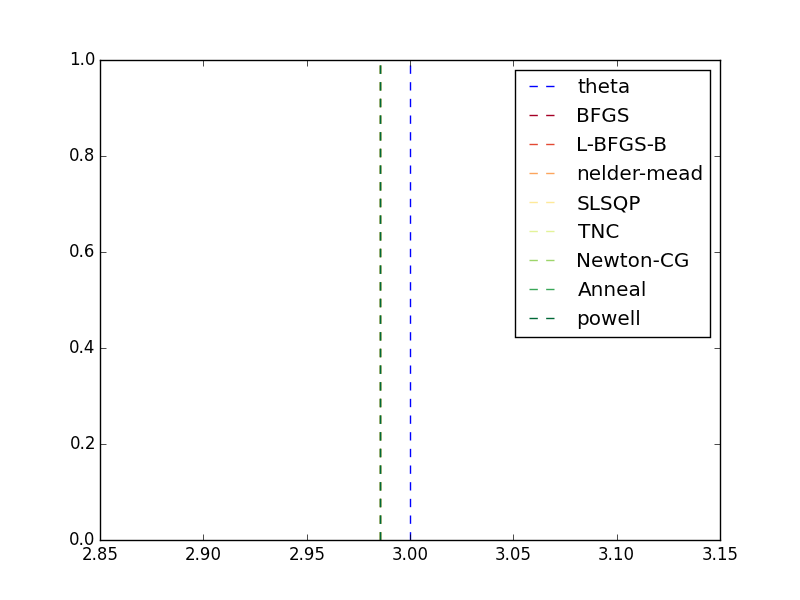
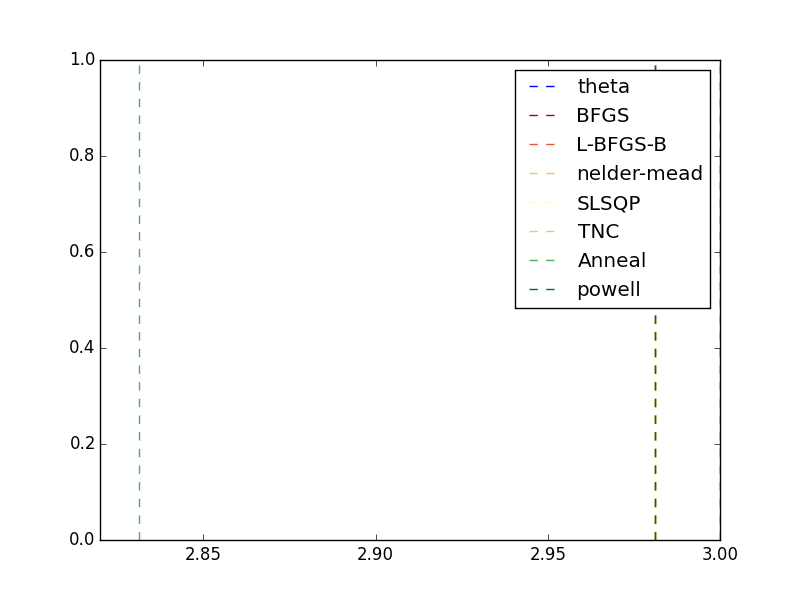
fitting four-param weibull

diff --git a/bin/examples.py b/bin/examples.py
@@ -4,6 +4,7 @@ from scipy.stats import exponweib, norm
 
 from tools import color_list
 from metrop_hastings import prune, metropolis_hastings, simulated_annealing, minimizer
+from weibull import weibull, rand_weibull
 
 def example_1():
     a, c = 3, 1
@@ -75,26 +76,98 @@ def example_4():
     pf = lambda ah, ch=c, d=data: -np.sum(np.log(exponweib.pdf(data, ah, ch)))
     x0 = 2
     sols = {}
-    methods = ["nelder-mead", "powell", "Anneal", "BFGS", "Newton-CG", "TNC", "L-BFGS-B", "SLSQP"]
+    methods = ["nelder-mead", "powell", "Anneal", "BFGS", "TNC", "L-BFGS-B", "SLSQP"]
     for method in sorted(methods):
-        th = minimizer(x0, pf, 'nelder-mead')
-        assert th['success']
-        # th = {'success': False}
-        # while not th['success']:
-        #     x0 = np.random.uniform(0, 10)
-        #     th = minimizer(x0, pf, 'nelder-mead')
-        #     print '{0} ({1}): {2}'.format(method, x0, th['message'])
+        th = {'success': False}
+        while not th['success']:
+            th = minimizer(x0, pf, method)
+            print '{0} ({1}): {2}'.format(method, x0, th['message'])
+            x0 = np.random.uniform(0, 10)
         sols[method] = th['x']
-    plt.axvline(a, label='theta', color='b', linestyle='--')
-    cmap = color_list(len(sols))
     for i, (method, sol) in enumerate(sols.iteritems()):
-        plt.axvline(sol, label=method, color=cmap[i], linestyle='--')
-    plt.legend()
-    plt.savefig('../img/example-4.png')
+        print '{0}: {1}'.format(method, sol)
+
+def log_likelihood(data, fcn, thetas):
+    """
+    data is array of [(x0, y0), (x1, y1), ...], where each yi in {0, 1}
+    fcn if function, and will be applied to each xi
+    thetas is tuple, a set of parameters passed to fcn along with each xi
+
+    calculates the sum of the log-likelihood of data
+        = sum_i fcn(xi, *thetas)^(yi) * (1 - fcn(xi, *thetas))^(1-yi)
+    """
+    # likelihood = lambda row: (1 - row[1]) + (2*row[1] - 1)*fcn(row[0], thetas)
+    likelihood = lambda row: fcn(row[0], thetas) if row[1] else 1-fcn(row[0], thetas)
+    log_likeli = lambda row: np.log(likelihood(row))
+    val = sum(map(log_likeli, data))
+    return val
+
+def example_5_inner(method, theta, maxtries, pf, bounds):
+    th = {'success': False}
+    th0 = np.array(theta)
+    i = 0
+    while i < maxtries and not th['success']:
+        th = minimizer(th0, pf, method, bounds, None, {'maxiter': 400})
+        th0 = th0*np.random.uniform(0.95, 1.05)
+        i += 1
+    return th['x'] if th['success'] else None
+
+def example_5_plot(sols, methods, xs0, theta, cmap):
+    # plt.scatter(xs0, [np.sum([yc for xc, yc in data if xc == x])*1.0/nblocks for x in xs0])
+    for i, method in enumerate(methods):
+        color = cmap[method]
+        for sol in sols[method]:
+            plt.plot(xs0, weibull(xs0, sol), color=color, label=method)
+            plt.axhline(sol[2], color=color, linestyle='--')
+            plt.axhline(sol[3], color=color, linestyle='--')
+    plt.plot(xs0, weibull(xs0, theta), linewidth=2, label='simulated')
+    plt.axhline(theta[2], linestyle='--')
+    plt.axhline(theta[3], linestyle='--')
+    plt.xscale('log')
+    # plt.legend()
     plt.show()
+
+    for i, method in enumerate(methods):
+        color = cmap[method]
+        ss = zip(*sols[method])
+        for i, s in enumerate(ss):
+            plt.subplot(2, 2, i+1)
+            plt.title('{0}, {1}'.format(method, ['scale', 'shape', 'lower-bound', 'upper-bound'][i]))
+            plt.hist(s, color=color, label=method)
+            plt.axvline(theta[i], linestyle='--')
+        plt.tight_layout()
+        plt.show()
+
+def example_5():
+    theta = [0.3, 0.9, 0.045, 0.96]
+    # theta = [0.1, 0.5, 0.03, 0.98]
+    xs0 = np.logspace(np.log10(0.001), np.log10(1.0), 20)
+    nblocks = 50
+    xs = xs0.repeat(nblocks)
+
+    th0 = theta # [0.5, 0.2, 0.0, 1.0]
+    APPROX_ZERO, APPROX_ONE = 0.00001, 0.99999
+    bounds = [(APPROX_ZERO, None), (APPROX_ZERO, None), (APPROX_ZERO, APPROX_ONE), (APPROX_ZERO, APPROX_ONE)]
+    methods = ["L-BFGS-B", "SLSQP"] # ["SLSQP", "TNC", "L-BFGS-B"]
+    maxtries = 2 # 20
+    nboots = 1000
+    sols = dict((method, []) for method in methods)
+
+    for i in xrange(nboots):
+        if i % 10 == 0:
+            print i
+        data = zip(xs, rand_weibull(xs, theta))
+        pf = lambda th, d=data: -log_likelihood(d, weibull, th)
+        for method in methods:
+            # print method
+            sol = example_5_inner(method, theta, maxtries, pf, bounds)
+            sols[method].append(sol)
+    cmap = dict(zip(methods, color_list(len(sols)+2, 'Dark2')))
+    example_5_plot(sols, methods, xs0, theta, cmap)
 
 if __name__ == '__main__':
     # example_1()
     # example_2()
     # example_3()
-    example_4()
+    # example_4()
+    example_5()

diff --git a/bin/weibull.py b/bin/weibull.py
@@ -27,6 +27,9 @@ def weibull(x, theta, unfold=False):
     a, b, minV, maxV = params(theta, unfold)
     return maxV - (maxV-minV) * np.exp(-pow(x/a, b))
 
+def rand_weibull(x, theta):
+    return np.random.binomial(1, weibull(x, theta))
+
 def inv_weibull(theta, y, unfold=False):
     """
     the function calculates the inverse of a weibull function
@@ -43,20 +46,3 @@ def weibull_mle(theta, xs, ys, unfold=False):
         yh = yh*0.99 + 0.005
         logL = np.sum(ys*np.log(yh) + (1-ys)*np.log(1-yh))
     return -logL
-
-def solve(xs, ys, unfold=False, guess=(0.3, 1.0), ntries=20, quick=True):
-    neg_log_likelihood_fcn = lambda theta: weibull_mle(theta, xs, ys, unfold)
-    sol = None
-    ymin = 100000
-    for i in xrange(ntries):
-        if i > 0:
-            guess = [g + i/10.0 for g in guess]
-        bounds = [(0, None), (0, None)] + ([(0.0, 1.0)] * (len(guess) - 2))
-        soln = minimize(neg_log_likelihood_fcn, guess, method='TNC', bounds=bounds, constraints=[])
-        if soln['success']:
-            theta_hat = soln['x']
-            if not quick and soln['fun'] < ymin:
-                sol = theta_hat
-            else:
-                return theta_hat
-    return sol

diff --git a/bin/metrop_hastings.py b/bin/metrop_hastings.py
@@ -1,7 +1,7 @@
 import numpy as np
 from scipy.optimize import minimize
 
-def minimizer(x0, p_pdf_fcn, method, bounds=None, constraints=None):
+def minimizer(x0, p_pdf_fcn, method, bounds=None, constraints=None, options=None):
     """
     only uses function evaluations:
         nelder-mead
@@ -17,10 +17,10 @@ def minimizer(x0, p_pdf_fcn, method, bounds=None, constraints=None):
         SLSQP
     """
     if bounds is None:
-        bounds = []
+        bounds = [(None, None)]*len(x0) if hasattr(x0, '__iter__') else [(None, None)]
     if constraints is None:
-        constraints = []
-    return minimize(p_pdf_fcn, x0, method=method, bounds=bounds, constraints=constraints)
+        constraints = ()
+    return minimize(p_pdf_fcn, x0, method=method, bounds=bounds, constraints=constraints, options=options)
 
 def prune(xs, L, E):
     """

diff --git a/README.md b/README.md
@@ -58,12 +58,38 @@ So what are the relative tradeoffs apparent so far between M-H and simulated ann
 
 `scipy.optimize` actually has a pretty broad selection of [minimization methods](http://docs.scipy.org/doc/scipy/reference/tutorial/optimize.html), including simulated annealing. So if you're not looking to view the posterior but are instead looking for its mode, this is probably your best bet (in terms of development time, testing, _and_ solver speed).
 
-I simulated data in the same way as I did in Examples 2 and 3 and called `scipy.optimize.minimize` with all of its relevant method arguments: `["nelder-mead", "powell", "Anneal", "BFGS", "Newton-CG", "TNC", "L-BFGS-B", "SLSQP"]`. Every single one of these solvers found solutions in basically no time at all, and all of their solutions were identical. Hooray!
+I simulated data in the same way as I did in Examples 2 and 3 and called `scipy.optimize.minimize` with all of its relevant method arguments: `["nelder-mead", "powell", "Anneal", "BFGS", "TNC", "L-BFGS-B", "SLSQP"]`. Every single one of these solvers found solutions in no time at all, and all of their solutions were basically identical. Hooray!
 
 Only problem is that I'm still fitting only one parameter, and I'm not including a prior. When you fit a real-life psychometric function, you need up to four parameters _and_ a prior. Do all of these methods scale with more parameters and messier function evaluations?
 
+#### Example 4: Fitting four parameters of data generated by a weibull pdf
+
+A general form of the psychometric curve is as follows:
+
+`Ψ(x; α, β, γ, λ) = γ + (λ - γ)F(x; α, β)`.
+
+`α` is the scale parameter, `β` the shape parameter, `λ` the upper-bound of performance, and `γ` the lower-bound. `F` is typically a sigmoid function--in this case I'm using the cdf of a weibull distribution.
+
+I wanted to compare all the fitting methods of `scipy.optimize` that allow bounds on the parameters. These are `["TNC", "L-BFGS-B", "SLSQP"]`, but `TNC` ended up being too slow so I dropped it from consideration.
+
+I simulated a series of datasets from a model psychometric curve with fixed parameters. Each dataset contained trials collected at `x_i = i/20` for `i = 1..20`. For each `x`, I simulated 50 trials. Each trial was either 1 or 0, for success/failure, where the probability of success on each trial was `Ψ(x; α, β, γ, λ)`. In other words, each trial was a draw from a bernoulli distribution with probability `Ψ(x; α, β, γ, λ)`.
+
+For each data set, I estimated the model parameters using the `L-BFGS-B` and `SLSQP` arguments to `scipy.optimize`, representing the [limited-memory BFGS](https://en.wikipedia.org/wiki/Limited-memory_BFGS) and [sequential least squares programming](http://www.pyopt.org/reference/optimizers.slsqp.html) algorithms, respectively. (Both of these are [quasi-Newton](https://en.wikipedia.org/wiki/Quasi-Newton_method) methods, meaning they use approximations of the Hessian to find the minima.)
+
+The solutions for `L-BFGS-B` and `SLSQP` are essentially identical, so I'll plot the results of only one of them.
+
+Simulation 1: Results from fitting 100 datasets drawn from model with parameters: α = 0.1, β=0.5, γ=0.03,$ and  λ=0.98.
+
+![four-parameter psychometric fitting, part 1](/img/pmf_4-1.png?raw=true "four-parameter psychometric fitting, part 1")
+
+Simulation 2: Results from fitting 1000 datasets drawn from model with parameters: α = 0.3, β=0.9, γ=0.045, and λ=0.96.
+
+![four-parameter psychometric fitting, part 2](/img/pmf_4-2.png?raw=true "four-parameter psychometric fitting, part 2")
+
+When interpreting these plots it should be noted that each model fit _kinda_ got to cheat because I gave the fitting function the actual generating set of parameters as its initial guess. The resulting spread in the parameter estimates, then, is very much a best-case scenario.
+
+Overall, the scale and shape parameter estimates appear unbiased in the long-run. But look how poorly it fits the upper-bound, `λ`! And only in the second simulation did it fit `γ` well on average. Why is this? Not really sure yet, but both of these parameters represent performance at the edge-cases of `x`, which means their estimates will be very dependent on the presence of rare events in the datasets.
+
 ### Future examples
 
-* Example 4: Fitting scale _and_ shape parameters of data generated by a weibull pdf.
-
-* Example 5: Fitting with a prior over parameters.
+* Example 5: Fitting with a prior over parameters
